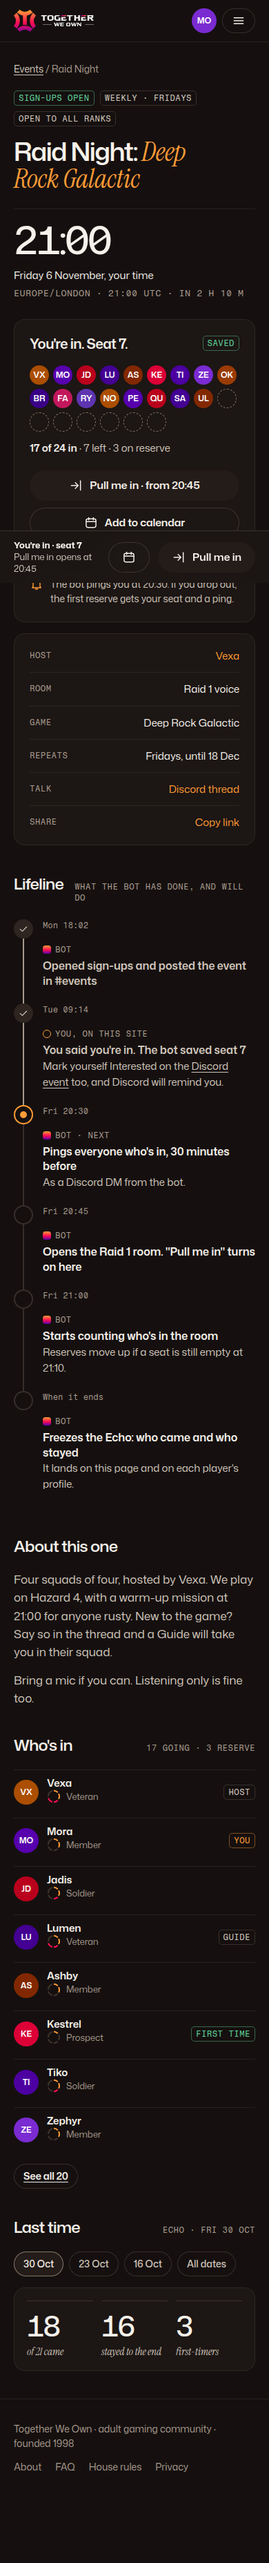
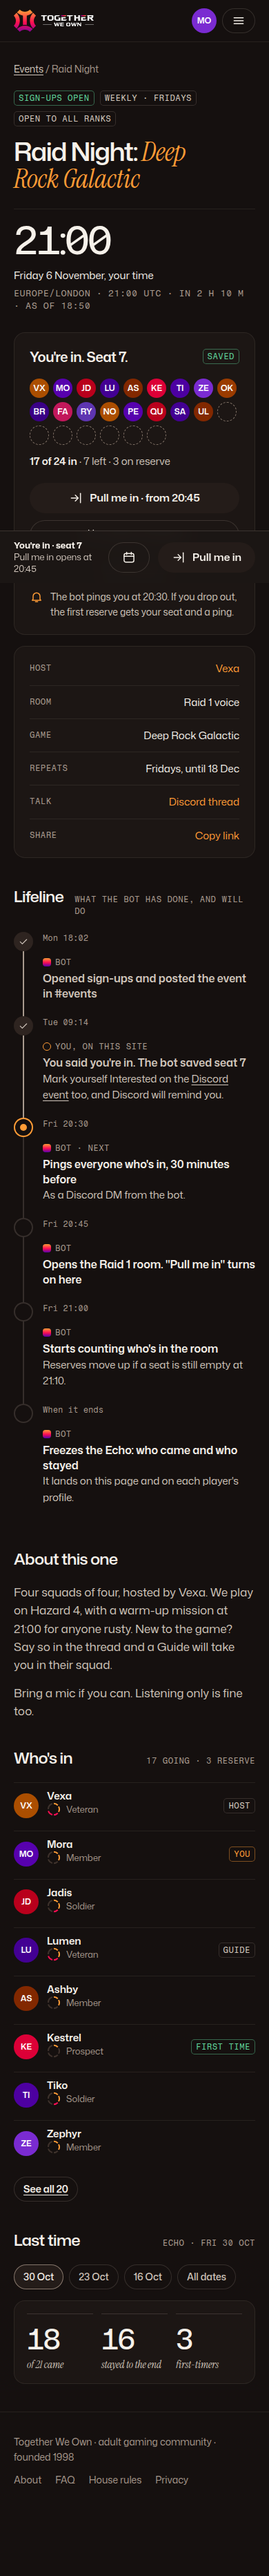
fix(kit): add C4 time block snapshot and stale states (#11)
Date C4 claims, define stale states and Refresh behavior, and bound cache and timer lifetimes.

diff --git a/docs/components.md b/docs/components.md
@@ -295,18 +295,43 @@ Mono uppercase group heading (the label style (`font.data`, `font-size.label`, u
 
 **Job:** say when an event starts, in the viewer's time, with the UTC anchor.
 
-**Anatomy:** top hairline, 28 px padding top. Big numeral ("21:00", `font-size.figure`, tabular) · beside it, two lines: "Friday 6 November, your time" (17 px `text.primary`) and the mono anchor "Europe/London · 21:00 UTC · in 2 h 10 m" (13 px `text.tertiary`). Wraps under the numeral at 390.
+**Anatomy:** top hairline, 28 px padding top. Big numeral ("21:00", `font-size.figure`, tabular) · beside it, two lines: "Friday 6 November, your time" (17 px `text.primary`) and the mono anchor "Europe/London · 21:00 UTC · in 2 h 10 m · as of 18:50" (13 px `text.tertiary`). Wraps under the numeral at 390.
 
-| State | Change |
-|---|---|
-| upcoming | as above; countdown in the anchor line |
-| starting (< 15 min) | countdown reads "starts in 12 m" |
-| live | numeral becomes "Live", anchor "since 21:00 · 16 in the room" (the tag above switches to `live`) |
-| ended | numeral shows the date ("30 Oct"), anchor "ended 23:14 · Echo frozen" |
-| cancelled | numeral struck through, plus "Cancelled" in words |
-| no zone known (guest) | "your time (from your browser)" |
+**Server HTML stays true however long it is read.** A server-rendered page can stay open, sit in the back/forward cache or come from a shared cache. So every time-relative or live claim is dated with the instant the server derived it, and the client never recomputes it.
 
-**A11y:** a `<time datetime="2026-11-06T21:00Z">` wraps the numeral. The countdown updates at most once a minute by text swap and is **not** a live region.
+- **Snapshot instant (`asOf`):** the one server instant used to derive the state, the countdown and the counts. On a shared cached page it is the cache-fill time.
+- **Absolute facts** never go stale: the start numeral, the date line, the zone and UTC anchor, "since 21:00", "ended 23:14" and "Cancelled".
+- **Claims** go stale: the countdown, the "Live" numeral and the room count.
+- **`staleAt`** = the earlier of `asOf` + `motion.poll.stale-after` (5 min) and the next state boundary after `asOf`: start − 15 min (upcoming → starting), start (→ live), and the end when it is known (live → ended).
+
+| State | Numeral | Anchor line | Can go stale |
+|---|---|---|---|
+| upcoming, start > 24 h after `asOf` | "21:00" | "Europe/London · 21:00 UTC" (no countdown: the date line already says when) | no |
+| upcoming, ≤ 24 h | "21:00" | "Europe/London · 21:00 UTC · in 2 h 10 m · as of 18:50" | yes |
+| starting (< 15 min) | "21:00" | "Europe/London · 21:00 UTC · starts in 12 m · as of 20:48" | yes |
+| live | "Live" | "since 21:00 · 16 in the room · as of 21:40" (the count only when the page has it; the tag above switches to `live`) | yes |
+| ended | the date ("30 Oct") | "ended 23:14 · Echo frozen" | no |
+| cancelled | struck through, plus "Cancelled" in words | unchanged | no |
+| stale, was upcoming or starting (JS only) | "21:00" | "Europe/London · 21:00 UTC · as of 18:50 · Refresh" (the countdown is removed) | — |
+| stale, was live (JS only) | "21:00" (the "Live" claim is withdrawn) | "Europe/London · 21:00 UTC · live as of 21:40 · Refresh" (the count is removed; the `live` tag above becomes `warn` "Stale", as does any other `live` tag the page rendered from the same snapshot) | — |
+| no zone known (guest) | combines with any row above | "your time (from your browser)" | — |
+
+**"as of" clause:** `as of HH:MM` in the zone the block already names, so a guest whose zone comes from the browser sees it in that zone once the island runs; before that, or with no zone, in UTC (as in H4's cached page rule). Prefix the date ("as of 5 Nov 22:10") when the `asOf` local date differs from the event's local date. Wrap it in its own `<time datetime>`. Same style as the rest of the anchor line (mono, `text.tertiary`), with no warn dot: the absolute time is still right. The A13 `state.warn` dot stays reserved for the page's freshness line.
+
+**Refresh:** the visitor refreshes; nothing refreshes for them. No `<meta http-equiv="refresh">`, no auto-reload, no C4 polling, no moving focus or scroll. In the stale rows only, append a text link (A2) `Refresh<span class="sr"> the event time</span>`: an `<a href>` to the page's own path and query without the fragment. The no-JS snapshot has no Refresh link: it can't know it is stale, the dated "as of" is the honest part, and the browser's reload is the action.
+
+**Cache lifetime:** a shared cache never serves a C4 snapshot past its `staleAt`, so Refresh (or reload) after `staleAt` always reaches a new snapshot. The server sets the page's shared-cache lifetime (`s-maxage`) to at most `staleAt − asOf`, rounded down to whole seconds (0: not shared-cached), and its private lifetime to `max-age=0`, so the browser's own cache revalidates on every navigation, Refresh included, instead of reusing its copy: `Cache-Control: public, max-age=0, s-maxage=<lifetime>`, or `private, no-cache` when not shared-cached. No `stale-while-revalidate`, `stale-if-error` or `immutable` on a page with C4. The link adds no cache-busting query. The back/forward cache is not a shared cache: the JS check below covers it.
+
+**Behaviour with JavaScript (no ticker):**
+- C4 ships no island of its own. Stale detection lives in the page's existing island; a page with no island is complete with the server snapshot alone.
+- Check `now ≥ staleAt` at hydration, on `pageshow` (including back/forward cache restores), on `visibilitychange` to visible and on every new snapshot. While C4 is fresh, keep exactly one one-shot `setTimeout` pending, for the `staleAt` of the snapshot on screen (delay `staleAt − now`), replaced after each check that leaves C4 fresh and cleared on teardown. A check that renders the stale form clears it and arms nothing: a stale C4 has no timer, and only a fresh new snapshot arms one again. No `setInterval`, no `requestAnimationFrame`, and no recomputing the countdown: the client never changes fresh text; only a new server snapshot does.
+- `now` never runs backwards, and a slow device clock cannot hold a claim past its bound. At each check, `now` is the latest of: the wall clock; the wall clock at hydration plus the `performance.now()` elapsed since; and `asOf` plus the `performance.now()` elapsed since the snapshot's response arrived (the navigation entry's `responseStart` for the page, the response time for a poll payload). The last needs no device clock: the response arrived after `asOf`, so it never runs ahead of real time. So a claim is withdrawn by `staleAt` when the device clock is right, and in any case no later than `staleAt` plus the snapshot's age on arrival: about 0 from the origin, at most its `s-maxage` from a shared cache. A wall clock set back cannot restore or prolong a claim.
+- The client clock never decides upcoming, live, ended or cancelled, and never computes a countdown. Show the stale form when the clock is unreadable, when it reads earlier than `asOf` (it is slow by an unknown amount, so `staleAt` can't be trusted against it), or when `now ≥ staleAt`: withdrawing a claim is always safe.
+- Fresh → stale is an instant text swap, with no transition under any motion preference.
+- If the page's island already polls (`motion.poll.live`), each payload is a new server snapshot with its own state, `asOf` and `staleAt`. Run the same checks on it before rendering: a payload that is already stale renders the stale form, never its countdown or count. Only a payload that passes returns C4 to fresh. This is the only way back to fresh without a navigation.
+- A fresh payload's state change (upcoming → starting → live → ended, or cancelled) renders at once. Its new countdown or "as of" text, with the state unchanged, renders at most once a minute ([accessibility.md](accessibility.md) §6 rule 4); until then the snapshot on screen keeps its own `asOf` and `staleAt`, so it stays true. The timer always follows the `staleAt` of the snapshot on screen.
+
+**A11y:** a `<time datetime="2026-11-06T21:00Z">` wraps the numeral, and the "as of" has its own `<time datetime>`. C4 is **not** a live region. A countdown going stale is not announced (relative times ageing, [accessibility.md](accessibility.md) §6 rule 2). Live → stale is a state change: if the page owns the polite status region, announce it once, throttled (rule 3): "Live details for Raid Night are out of date. Refresh for the latest." With no status region on the page, the swap stays silent.
 
 ### C5. Seat card
 

diff --git a/docs/accessibility.md b/docs/accessibility.md
@@ -41,7 +41,7 @@ Live data is the heart of Ember Hours, and the most likely place to annoy a scre
 1. **One polite status region per page** (`<div role="status" aria-live="polite" class="sr">`), owned by the live island. Nothing else on the page is `aria-live`.
 2. **Announce state changes, not ticks.** Announce: an event goes live ("Raid Night is live"), the room opens ("The Raid 1 room is open. Pull me in is on."), data goes stale ("Live numbers are catching up") or recovers, a Lifeline step completes, the result of the member's own action ("You're in. Seat 7."). Never announce: counts changing, relative times ageing, countdowns, new bot-log lines, the Now marker moving.
 3. **Throttle:** at most one *state* announcement per 10 s; merge if several states change in one poll. The result of the member's own action is exempt: announce it at once, and drop any queued state announcement it supersedes.
-4. **Clocks and countdowns are not live regions.** They update at most once a minute by text swap. The `<time datetime>` gives the absolute value.
+4. **Clocks and countdowns are not live regions.** They update at most once a minute by text swap; an event countdown (C4) is never recomputed by the client: it is dated "as of", changes only with a new server snapshot from the poll (rule 6; its text at most once a minute, a state change at once) and is withdrawn when stale. The `<time datetime>` gives the absolute value.
 5. **Errors from the member's own action** may use `role="alert"`; nothing else does.
 6. **Polling:** `motion.poll.live` (30 s) while the tab is visible; pause when hidden; never refresh focus or scroll position.
 

diff --git a/AGENTS.md b/AGENTS.md
@@ -48,7 +48,7 @@ How to build a page, component or bot surface that looks and behaves exactly lik
 | Live state changes by swapping text | Pulse, count-up, ticker, carousel, scroll reveal |
 | Motion inside `@media (prefers-reduced-motion: no-preference)` | A transition outside that query |
 | Now Line visual `aria-hidden` plus a hidden text list | A chart with only an `aria-label` |
-| Countdown updated once a minute, not a live region | `aria-live` on a clock |
+| Countdown dated "in 2 h 10 m · as of 18:50" by the server, withdrawn by JS once stale (C4) | `aria-live` on a clock, or a countdown the client recomputes |
 | `aria-disabled="true"` with "Pull me in · from 20:45" | A `disabled` button with no reason |
 | "That didn't save. Try again, or say you're in from Discord." | "Error", "Something went wrong" |
 | Empty state with one next step | An empty box, or "No data" |
@@ -84,6 +84,7 @@ Run this on every UI or bot-surface PR. The author fills it in the PR body; desi
 **Copy**
 - [ ] Sentence case; verbs first on buttons; the word list followed.
 - [ ] Times viewer-local with a zone; UTC anchor on detail pages.
+- [ ] Countdowns and live claims carry the server's "as of" and are withdrawn, never recomputed, once stale (components.md C4).
 - [ ] Privacy: guests see counts not names; opted-out members are "a member"; nothing in voice.md §5's never-print list.
 
 **Accessibility**
